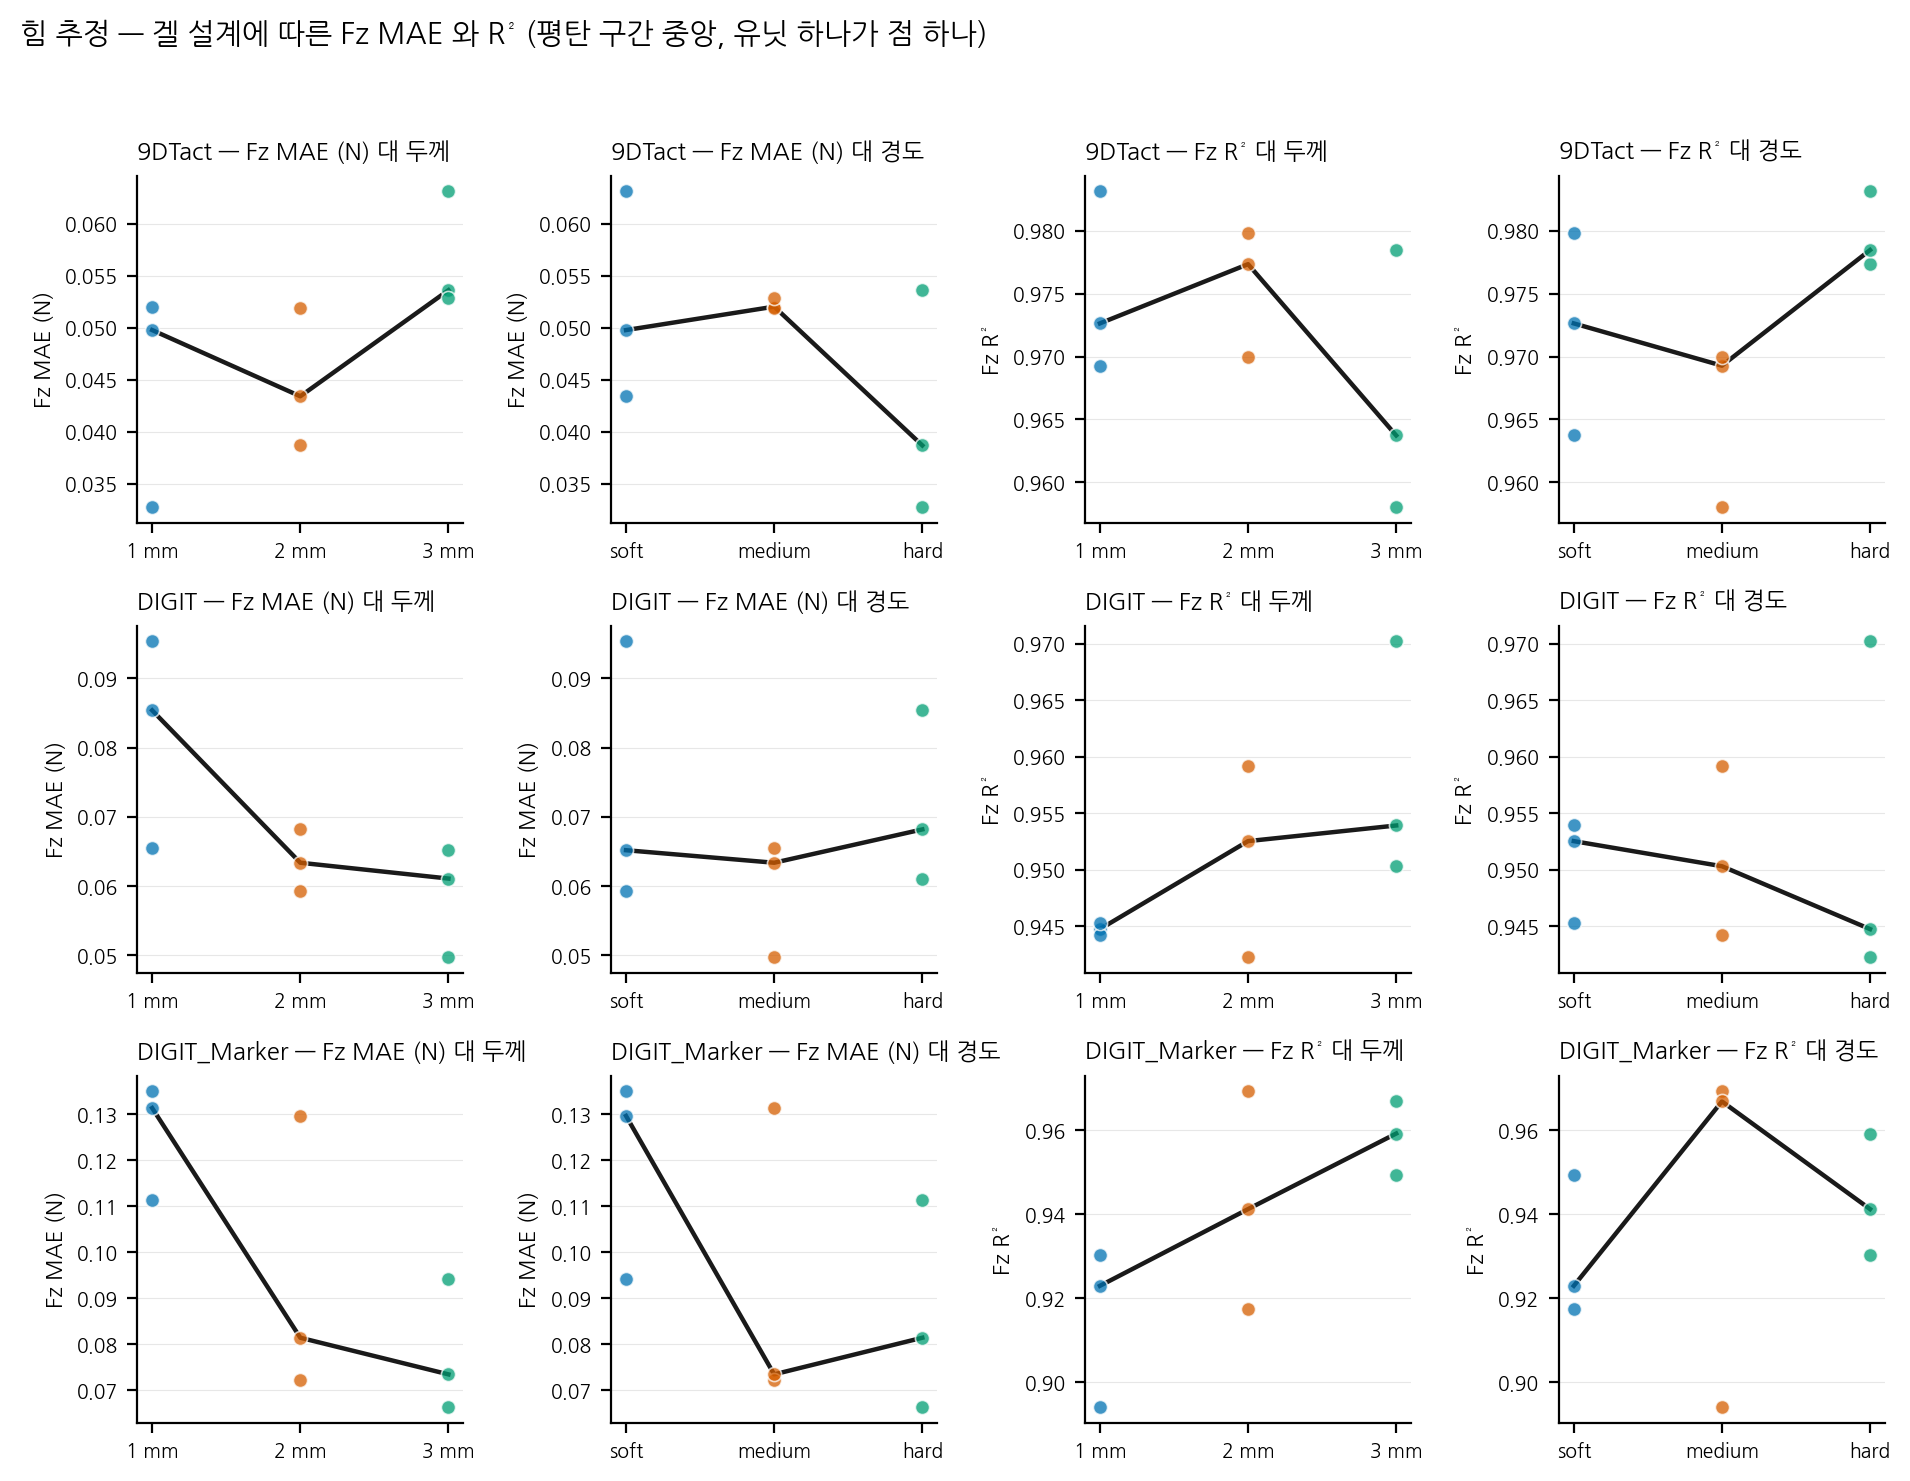
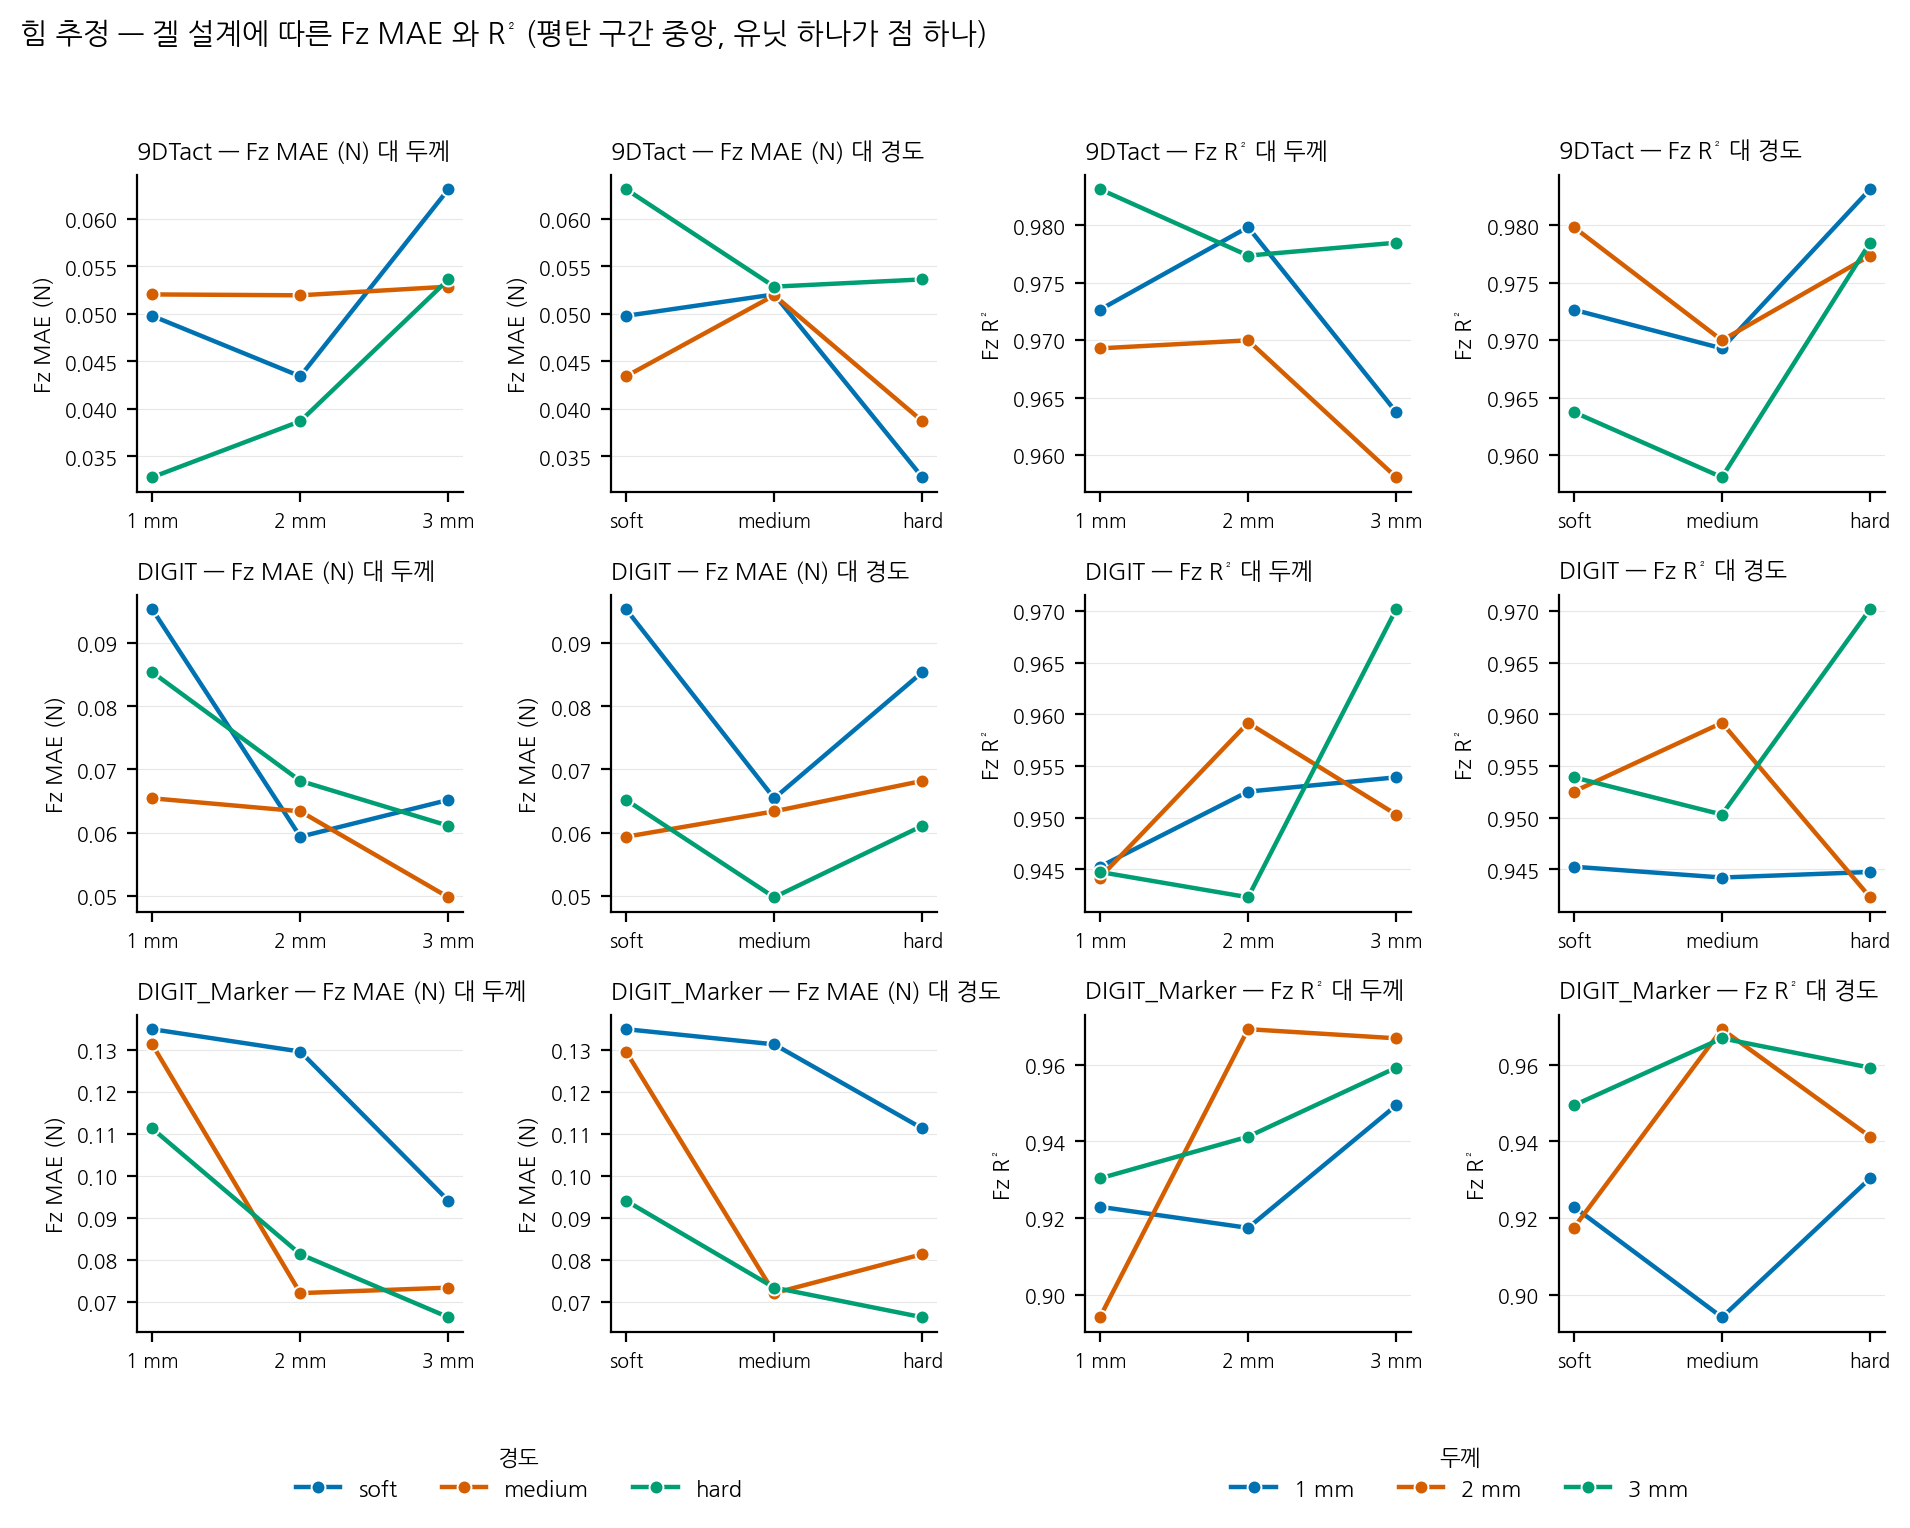
겔 효과 그림: 중앙값 선 대신 같은 경도/두께끼리 이어 그린다
운전자 지시. 중앙값 선 하나는 "평균이 어디로 가나" 만 보여 주고 같은 겔이
어떻게 움직이는지는 감춘다.

가로가 두께면 선 셋은 soft·medium·hard 각각의 두께 곡선, 가로가 경도면
1·2·3 mm 각각의 경도 곡선이다. 아홉 유닛이 3x3 이라 칸마다 하나씩이므로
**선마다 점이 정확히 셋**이다. 범례는 선을 가리지 않게 그림 아래로 뺐다.

## 이 그림이 드러낸 것

선이 나란한지를 눈이 아니라 기울기 부호로 셌다. 다른 인자를 고정하고 잰
기울기의 부호가 셋 다 같은가:

  Fz MAE  두께에 대해  9DTact [+++]  DIGIT [---]  마커 [---]   전부 같음
  Fz MAE  경도에 대해  9DTact [---]  DIGIT [-+-]  마커 [---]   DIGIT 엇갈림
  cyl4    두께에 대해  9DTact [--+]                            엇갈림
  cyl4 R² 두께에 대해  9DTact [+--]  DIGIT [-++]               둘 다 엇갈림

**나란한 것은 힘의 두께 쪽뿐이다.** 엇갈린다는 것은 아홉 점을 한 줄에 세워
재는 Spearman 이 그 칸에서는 존재하지 않는 줄을 재고 있다는 뜻이다. 그래서
이 절의 결론은 "두께 쪽에 신호가 몰린다" 까지이고 칸별 크기를 인용할 근거는
되지 못한다고 적었다.

diff --git a/src/scripts/gel_effect.py b/src/scripts/gel_effect.py
@@ -25,7 +25,7 @@ import pandas as pd
 from scipy import stats
 
 import result_common as RC
-from palette import CAT3
+from palette import HARD3, THICK3
 
 ROOT = Path(__file__).resolve().parents[2]
 DS = ROOT / "data" / "20260911_VBTSresolution_dataset"
@@ -118,12 +118,26 @@ def tests(d, metrics):
 
 
 def panel(ax, g, col, fac, ylab, title):
+    """x 는 한 인자, **선은 다른 인자**다 (2026-09-14, 운전자 지시).
+
+    중앙값 선 하나는 "평균이 어디로 가나" 만 보여 주고 같은 겔이 어떻게
+    움직이는지는 감춘다. 아홉 유닛이 3 x 3 이므로 칸마다 하나씩이고, 다른
+    인자를 고정하면 **정확히 세 점짜리 선 셋**이 나온다 — 예컨대 x 가 두께면
+    soft·medium·hard 각각의 두께 곡선이다. 선이 서로 나란하면 두 인자가
+    더해지는 것이고, 엇갈리면 상호작용이다.
+    """
     x = "thickness_mm" if fac == "두께" else "hard_n"
-    for i, (k, s) in enumerate(g.groupby(x)):
-        ax.scatter([k] * len(s), s[col], s=26, c=CAT3[i % 3], alpha=.75,
-                   ec="white", lw=.6, zorder=3)
-    med = g.groupby(x)[col].median()
-    ax.plot(med.index, med.values, "-", c="#1a1a1a", lw=1.6, zorder=2)
+    other, cmap, lab = (("hard_n", HARD3, {1: "soft", 2: "medium", 3: "hard"})
+                        if fac == "두께" else
+                        ("thickness_mm", THICK3, {1: "1 mm", 2: "2 mm", 3: "3 mm"}))
+    key = {1: "soft", 2: "medium", 3: "hard"} if fac == "두께" else {1: 1, 2: 2, 3: 3}
+    for k in (1, 2, 3):
+        sub = g[g[other] == k].sort_values(x)
+        if not len(sub):
+            continue
+        c = cmap[key[k]]
+        ax.plot(sub[x], sub[col], "-o", c=c, lw=1.6, ms=5, mec="white",
+                mew=.7, label=lab[k], zorder=3)
     ax.set_xticks([1, 2, 3])
     ax.set_xticklabels(["1 mm", "2 mm", "3 mm"] if fac == "두께"
                        else ["soft", "medium", "hard"], fontsize=7.5)
@@ -137,6 +151,7 @@ def panel(ax, g, col, fac, ylab, title):
 def figure(d, spec, stem, suptitle):
     """행 = 원리, 열 = (MAE 두께, MAE 경도, R² 두께, R² 경도)."""
     prs = [p for p in PRS if p in set(d.principle)]
+    leg = {}
     fig, axes = plt.subplots(len(prs), 4, figsize=(9.6, 2.5 * len(prs)),
                              squeeze=False)
     for i, pr in enumerate(prs):
@@ -145,10 +160,19 @@ def figure(d, spec, stem, suptitle):
         for j, (col, fac, ylab) in enumerate(
                 [(mcol, "두께", mlab), (mcol, "경도", mlab),
                  (rcol, "두께", rlab), (rcol, "경도", rlab)]):
-            t = f"{pr} — {ylab} 대 {fac}" if i == 0 or True else ""
+            t = f"{pr} — {ylab} 대 {fac}"
             panel(axes[i][j], g.dropna(subset=[col]), col, fac, ylab, t)
+            if i == 0:
+                h, l = axes[i][j].get_legend_handles_labels()
+                leg.setdefault("경도" if fac == "두께" else "두께",
+                               (h, l))
+    for k, (x, (h, l)) in enumerate(zip((.27, .76), leg.items())):
+        t, (hh, ll) = l if False else (x, leg[list(leg)[k]])
+        fig.legend(hh, ll, frameon=False, fontsize=8, ncol=3,
+                   title=list(leg)[k], title_fontsize=8,
+                   loc="lower center", bbox_to_anchor=(t, -.02))
     fig.suptitle(suptitle, fontsize=10.5, x=.01, ha="left")
-    fig.tight_layout(rect=[0, 0, 1, .96])
+    fig.tight_layout(rect=[0, .06, 1, .96])
     p = RES / "extra"
     (p / "figures").mkdir(parents=True, exist_ok=True)
     fig.savefig(p / "figures" / f"{stem}.png", dpi=200, bbox_inches="tight")

diff --git a/src/scripts/make_results_md.py b/src/scripts/make_results_md.py
@@ -105,12 +105,17 @@ def gel_block():
     w("MAE 가 작아도 R² 가 낮고, 배율만 틀린 유닛은 R² 가 높아도 MAE 가 크다 —")
     w("형상 쪽에서 이미 본 것이다(상관 0.99 인데 깊이가 참값의 0.61 배).")
     w()
+    w("**선은 다른 인자를 고정한 것**이다. 가로가 두께면 선 셋은 soft·medium·")
+    w("hard 각각의 두께 곡선이고, 가로가 경도면 1·2·3 mm 각각의 경도 곡선이다.")
+    w("아홉 유닛이 3 × 3 이라 칸마다 하나씩이므로 **선마다 점이 정확히 셋**이다.")
+    w("선이 나란하면 두 인자가 더해지는 것이고, **엇갈리면 상호작용**이다.")
+    w()
     for f, cap in [("extra/figures/J_gel_effect_force.png",
                     "힘 추정 — 겔 설계에 따른 Fz MAE 와 R². 점 하나가 유닛 "
-                    "하나, 검은 선이 중앙값."),
+                    "하나이고, 선은 다른 인자를 고정한 것이다."),
                    ("extra/figures/J_gel_effect_shape.png",
                     "형상 복원 — 겔 설계에 따른 원기둥 MAE 와 R². 점 하나가 "
-                    "유닛 하나, 검은 선이 중앙값.")]:
+                    "유닛 하나이고, 선은 다른 인자를 고정한 것이다.")]:
         if (RES / f).exists():
             fig(f, cap)
     T = pd.concat([pd.read_csv(tf).assign(task="힘"),
@@ -166,6 +171,17 @@ def gel_block():
             w("두 파이프라인이 같은 겔을 반대로 읽는다면, 그것은 겔의 성질이")
             w("아니라 파이프라인의 성질이다.")
             w()
+    w("**선이 나란한 것은 힘의 두께 쪽뿐이다.** 다른 인자를 고정하고 잰 기울기의")
+    w("부호가 셋 다 같은지 세어 보면, Fz 는 세 원리 모두 **두께에 대해** 부호가")
+    w("같다(MAE 는 9DTact +, DIGIT·마커 −). 그런데 **경도에 대해서는** 9DTact 와")
+    w("마커만 같고 DIGIT 은 엇갈린다. 형상은 더 나쁘다 — 9DTact 는 네 조합 모두")
+    w("엇갈리고, DIGIT 은 MAE 만 같고 R² 는 엇갈린다.")
+    w()
+    w("> **엇갈린다는 것은 ρ 하나로 요약하면 안 된다는 뜻이다.** 위 표의 Spearman")
+    w("> 은 아홉 점을 한 줄에 세워 재는데, 선이 엇갈리면 그 한 줄이 존재하지")
+    w("> 않는다. 그래서 이 절의 결론은 **\"두께 쪽에 신호가 몰린다\"** 까지이고,")
+    w("> 칸별 크기를 인용할 근거는 되지 못한다.")
+    w()
     _neg = T[(T.metric.str.startswith("r2")) &
              ((T.med_1 < 0) | (T.med_2 < 0) | (T.med_3 < 0))]
     if len(_neg):
